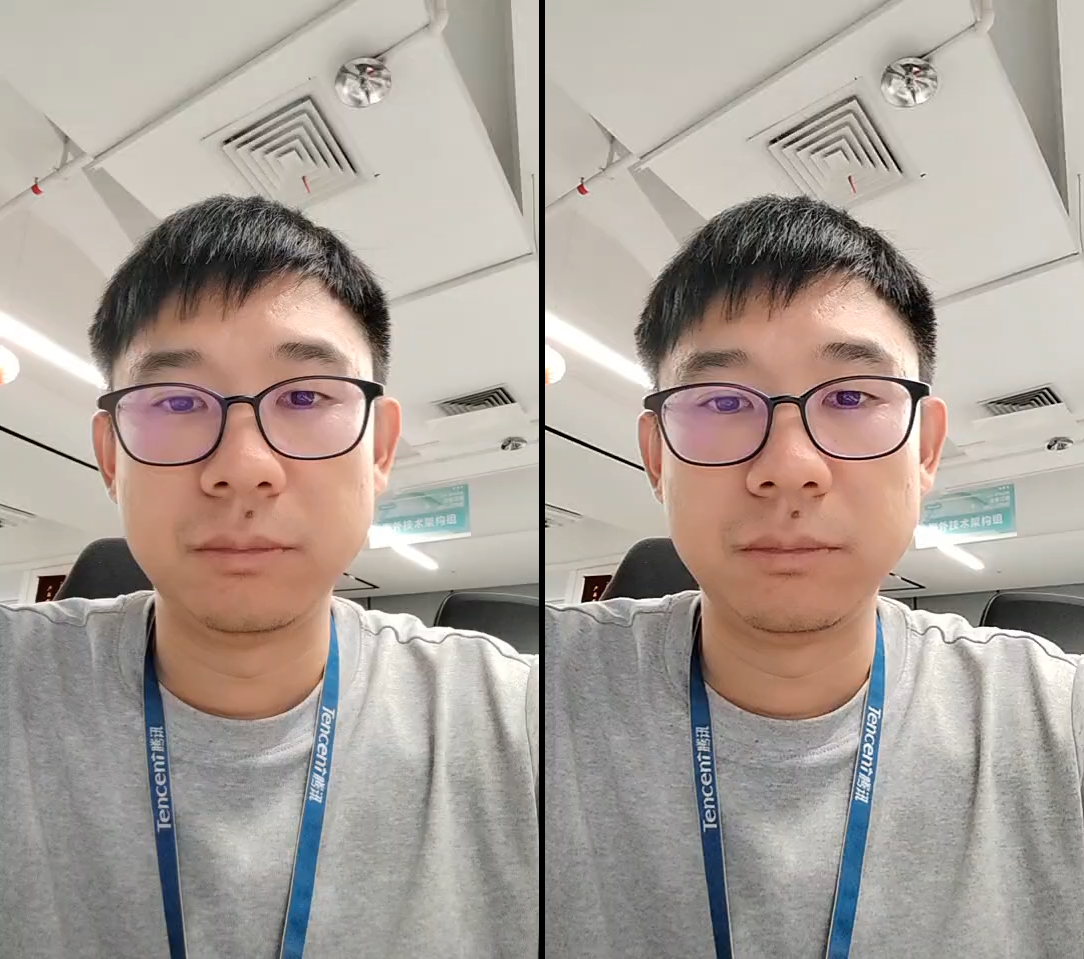
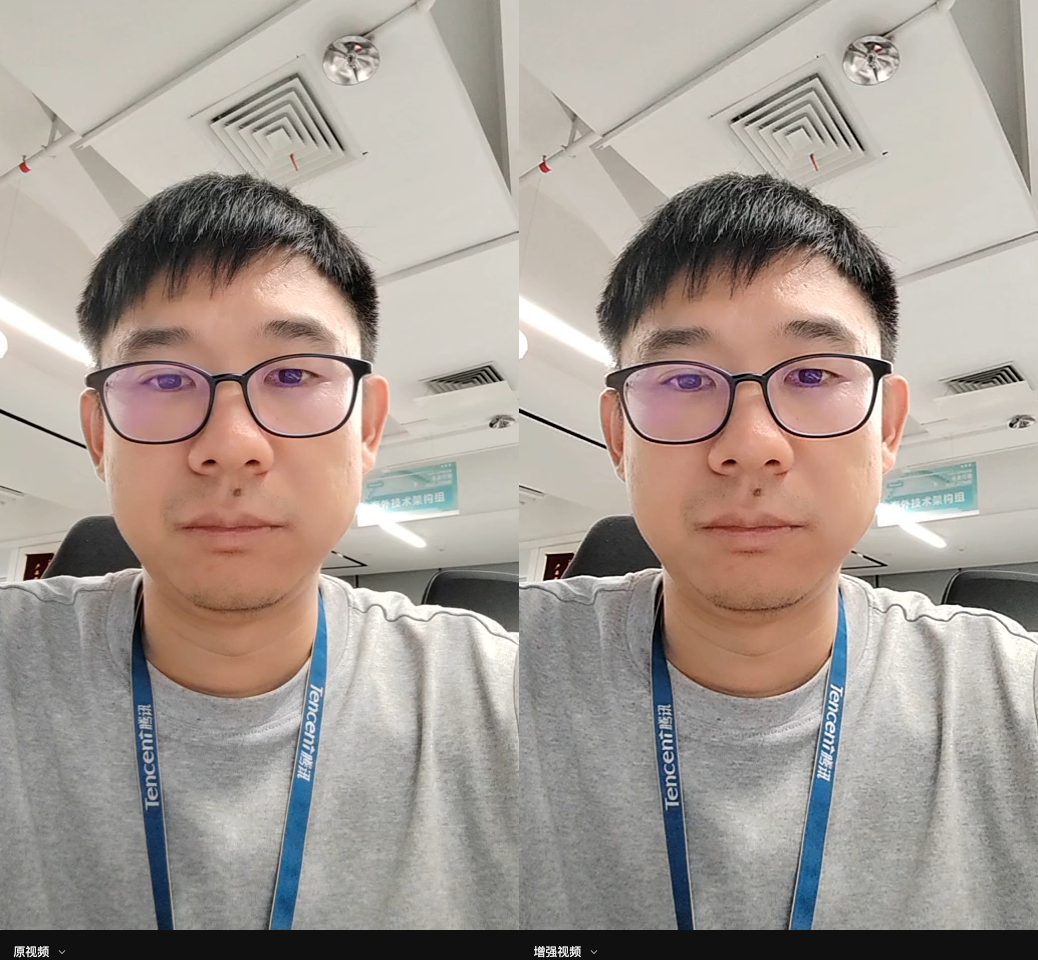
docs(TsrSdk): update README.md

diff --git a/README.md b/README.md
@@ -1,58 +1,74 @@
-# 实时画质增强SDK
-实时画质增强SDK是一款功能强大的画面处理工具，包含超分辨率和画质增强功能。适应手机终端算力、能耗、机型兼容、包体增量的限制，以极高性能和极低功耗实现终端上最佳的超分辨率与画质增强质量。
+# 终端视频增强SDK
 
-提供标准版和专业版两个版本，支持Android和iOS系统。
+## 1.产品介绍
+终端视频增强SDK，基于高效的图像处理算法和AI模型推理能力，实现终端视频超分辨率、画质增强等功能。  
 
-## 算法效果
-### 超分辨率
-540P -> 1080P
+各版本具体功能详情如下： 
 
-左：直接播放；中：标准版超分；右：专业版超分
+| 功能点           | 标准版 | 专业版 |
+| ---------------- | ------ | ------ |
+| 标准超分辨率     | 支持   | 支持   |
+| 标准超分+增强  <br> (对比度/亮度/色彩饱和度)| 支持   | 支持   |
+| 专业超分辨率     |        | 支持   |
+| AI画质增强      |        | 支持   |  
 
-<img src=./docs/pro-tsr-cmp.png />
+<br>
+<img src=./docs/pro-tsr-cmp.png width=80%/>  
 
-### 画质增强
-左：原图；右：专业版画质增强
+<small>从左到右依次为540P原视频、普通播放、超分播放(标准版)、超分播放(标准版+增强)、超分播放(专业版)。
+[链接](https://cg-sdk-1258344699.cos.ap-nanjing.myqcloud.com/personal/handleychen/20240621%20%E5%AF%B9%E5%A4%96%E4%BB%8B%E7%BB%8D%E6%95%88%E6%9E%9C/index%28%E6%A8%A1%E7%89%88-%E5%8E%9F%E6%99%AE%E6%A0%87%E6%A0%87%E4%B8%93%29.html)</small>  
 
-<img src=./docs/pro-ie-cmp.png />
+<img src=./docs/pro-ie-cmp.png width=50% />  
 
-## 性能
+<small>从左到右依次为540P原视频、增强视频。[链接](https://cg-sdk-1258344699.cos.ap-nanjing.myqcloud.com/personal/handleychen/20240621%20%E5%AF%B9%E5%A4%96%E4%BB%8B%E7%BB%8D%E6%95%88%E6%9E%9C/index%28%E6%A8%A1%E7%89%88-%E5%8E%9F%E5%A2%9E%29.html) </small>  
+
+* 标准版的优势是性能，我们的算法能以极低的耗时和功耗，实现较好的超分辨率效果。
+* 标准版里还提供了图像增强能力，可以调整图像的对比度、亮度、色彩饱和度。
+* 专业版的优势是效果，它通过AI模型推理，能生成原图像缺失的纹理细节，实现最好的图像增强和超分辨率效果。对设备性能有一定要求，建议在中高端手机上使用。
+
+## 2.产品性能
 ### 标准版超分辨率
-<img src=docs/standard-sr-performance.png width=60% />
+<img src=docs/standard-sr-performance1.png width=30% />
+
+<img src=docs/standard-sr-performance2.png width=60% />
 
 ### 专业版超分辨率
 <img src=docs/pro-sr-performance.png width=80% />
 
-### 专业版画质增强
+### AI画质增强
 <img src=docs/pro-ie-performance.png width=80% />
 
-## SDK版本
-| SDK版本     | 标准版超分辨率 | 专业版超分辨率 | 专业版画质增强 |
-| :- |:-|:--------|:--------|
-| 标准版   | ✅    | ❌       | ❌       |
-| 专业版   | ✅    | ✅       | ✅       |
-* 标准版：提供标准版超分辨率功能，实现快速的超分辨率处理速度，适用于高实时性要求的场景。在这种模式下，可以实现显著的图像质量改善。
+## 3. 使用场景
 
-* 专业版：提供的功能包括标准版超分辨率、专业版超分辨率、专业版画质增强。专业版超分辨率和画质增强适用于高质量要求的场景，但对设备性能有一定要求，建议在中高端智能手机上使用。
+1、终端播放器增强，提高视频播放的画质、流畅度体验。  
+<img src=docs/scenario_pipeline.png width=50% />
 
-## 兼容性
-* Android平台：Android5.0以上（API 21，OpenGL ES 3.1），兼容目前Android市场上99.6%的手机。
+2、节约成本，降低视频分发的分辨率和码率，再通过终端播放增强来减小体验损失。
+<img src=docs/scenario_video_trans.png width=70% />
+
+
+## 4. 兼容性
+* Android平台：Android5.0以上（API 21，OpenGL ES 3.1）。
 
 * iOS平台：适用于 iPhone 5s及更高版本的设备，最低系统版本为iOS 12。
 
-## 包大小
+## 5. 包大小
 * 标准版：Android AAR约0.6M（含arm64-v8a和armeabi-v7a）；iOS Framework 0.35MB。
 
 * 专业版：Android AAR 6.9MB（含arm64-v8a和armeabi-v7a）；iOS Framework 6.03MB。
 
-## 体验Demo
+## 6. Demo体验
+[下载链接](https://cg-sdk-1258344699.cos.ap-nanjing.myqcloud.com/tsr/pro-demo-android/SRPlayer.apk)  
 用手机系统浏览器打开，下载安装   
 |Android|
 | :- |
 | <img src=./docs/android-demo-qrcode.png width=30% />|
 
+<div style="display:flex;">
+  <img src="./docs/android_demo_page1.png" width="30%" />
+  <img src="./docs/android_demo_page2.png" width="30%" />
+  <img src="./docs/android_demo_page3.png" width="30%" />
+</div>
 
-## 接入SDK
-<img src=./docs/integrate1.png width=40% />
-
-参考接入指南：[Android](https://github.com/tencentyun/TSR/blob/main/%E6%8E%A5%E5%85%A5%E6%8C%87%E5%8D%97.md#android) / [iOS](https://github.com/tencentyun/TSR/blob/main/%E6%8E%A5%E5%85%A5%E6%8C%87%E5%8D%97.md#ios)
+## 7. 接入指引
+参考[接入指南](https://github.com/tencentyun/TSR/blob/main/%E6%8E%A5%E5%85%A5%E6%8C%87%E5%8D%97.md)
